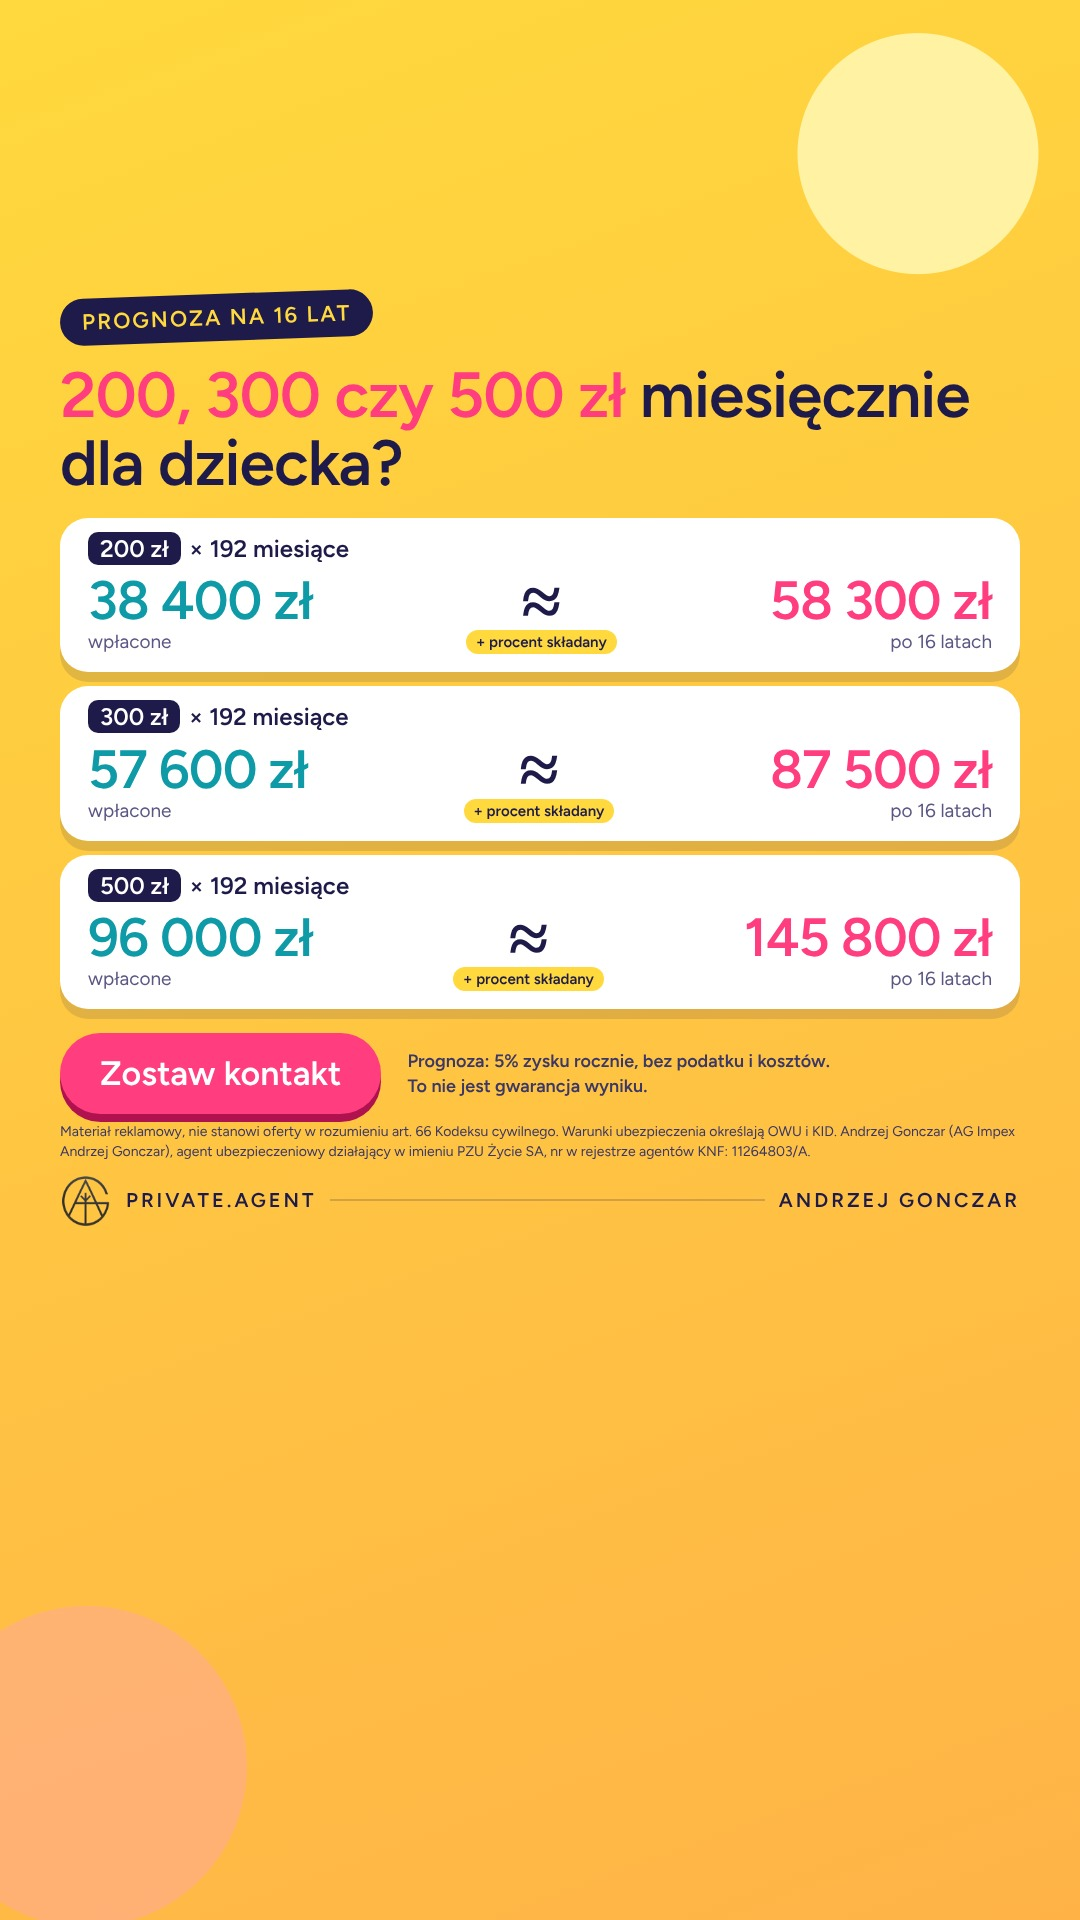
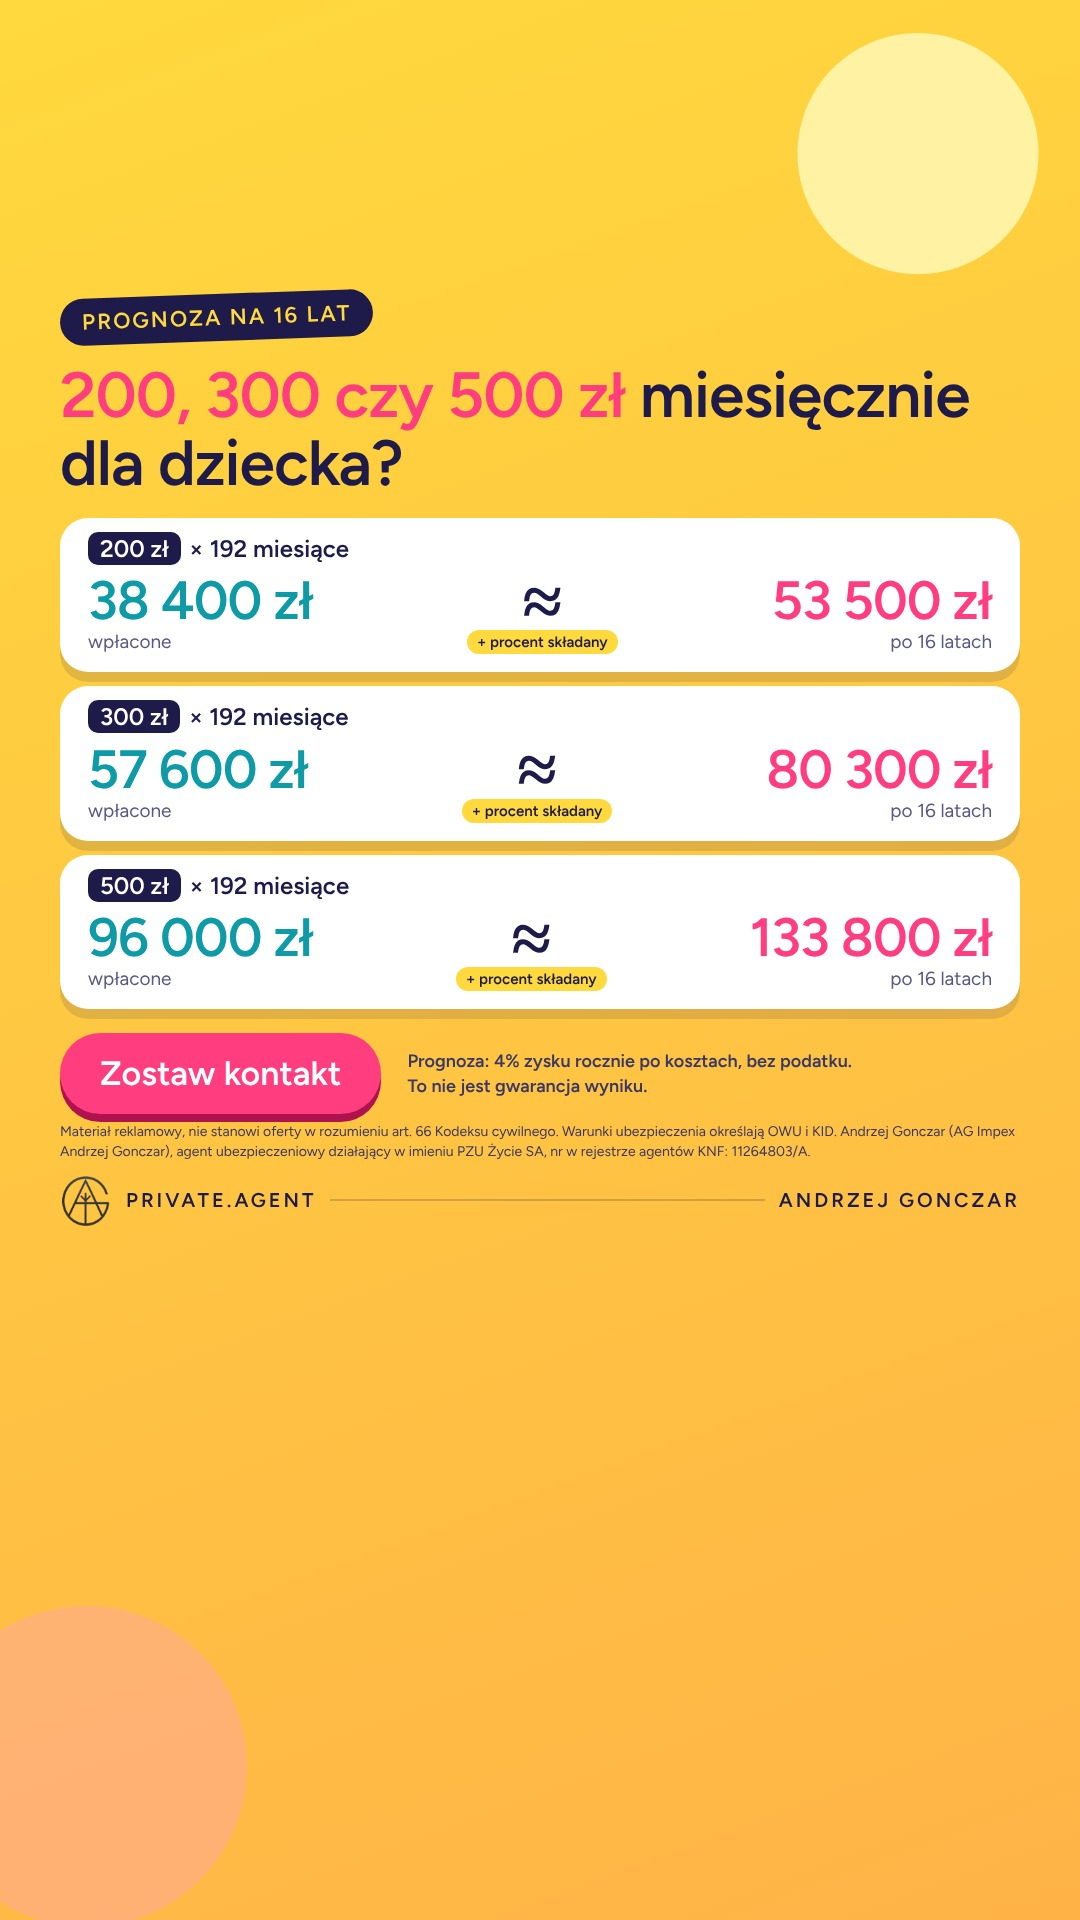
Kampania POSAG: 4% po kosztach
Claude-Session: https://claude.ai/code/session_01PysvEAD1NGhp7e2gF3vHjf

diff --git a/instagram/reklamy/posag-2026-11/reklama-posag.html b/instagram/reklamy/posag-2026-11/reklama-posag.html
@@ -38,16 +38,16 @@ h1 em{font-style:normal;color:#FF3D7F}
 <div class="c"><div class="lab"><b>200 zł</b>× 192 miesiące</div><div class="eq">
  <div class="l"><div class="n">38 400 zł</div><div class="s">wpłacone</div></div>
  <div class="mid"><div class="ap">≈</div><div class="pc">+ procent składany</div></div>
- <div class="r"><div class="n">58 300 zł</div><div class="s">po 16 latach</div></div></div></div>
+ <div class="r"><div class="n">53 500 zł</div><div class="s">po 16 latach</div></div></div></div>
 <div class="c"><div class="lab"><b>300 zł</b>× 192 miesiące</div><div class="eq">
  <div class="l"><div class="n">57 600 zł</div><div class="s">wpłacone</div></div>
  <div class="mid"><div class="ap">≈</div><div class="pc">+ procent składany</div></div>
- <div class="r"><div class="n">87 500 zł</div><div class="s">po 16 latach</div></div></div></div>
+ <div class="r"><div class="n">80 300 zł</div><div class="s">po 16 latach</div></div></div></div>
 <div class="c"><div class="lab"><b>500 zł</b>× 192 miesiące</div><div class="eq">
  <div class="l"><div class="n">96 000 zł</div><div class="s">wpłacone</div></div>
  <div class="mid"><div class="ap">≈</div><div class="pc">+ procent składany</div></div>
- <div class="r"><div class="n">145 800 zł</div><div class="s">po 16 latach</div></div></div></div>
-<div class="bot"><div class="cta">Zostaw kontakt</div><div class="note big">Prognoza: 5% zysku rocznie, bez podatku i kosztów.<br>To nie jest gwarancja wyniku.</div></div>
+ <div class="r"><div class="n">133 800 zł</div><div class="s">po 16 latach</div></div></div></div>
+<div class="bot"><div class="cta">Zostaw kontakt</div><div class="note big">Prognoza: 4% zysku rocznie po kosztach, bez podatku.<br>To nie jest gwarancja wyniku.</div></div>
 <div class="legal">Materiał reklamowy, nie stanowi oferty w rozumieniu art. 66 Kodeksu cywilnego. Warunki ubezpieczenia określają OWU i KID. Andrzej Gonczar (AG Impex Andrzej Gonczar), agent ubezpieczeniowy działający w imieniu PZU Życie SA, nr w rejestrze agentów KNF: 11264803/A.</div>
 <div class="foot"><img src="logo-t.png">PRIVATE.AGENT<div class="line"></div>ANDRZEJ GONCZAR</div>
 </body></html>

diff --git a/instagram/reklamy/posag-2026-11/kampania.md b/instagram/reklamy/posag-2026-11/kampania.md
@@ -7,10 +7,10 @@ Biłgoraj + 40 km, 18+, 20 zł dziennie, test A/B przez 7 dni.
 - reklama-posag-1x1.jpg – Marketplace, prawa kolumna
 - reklama-posag-9x16.jpg – Stories i Reels
 
-Prognoza: 200/300/500 zł co miesiąc przez 192 miesiące (16 lat), 5% zysku rocznie, bez waloryzacji, podatku i kosztów.
-- 200 zł: wpłacone 38 400 zł ≈ 58 300 zł
-- 300 zł: wpłacone 57 600 zł ≈ 87 500 zł
-- 500 zł: wpłacone 96 000 zł ≈ 145 800 zł
+Prognoza: 200/300/500 zł co miesiąc przez 192 miesiące (16 lat), 4% zysku rocznie po kosztach, bez waloryzacji i podatku.
+- 200 zł: wpłacone 38 400 zł ≈ 53 500 zł
+- 300 zł: wpłacone 57 600 zł ≈ 80 300 zł
+- 500 zł: wpłacone 96 000 zł ≈ 133 800 zł
 
 Klauzula na grafice: Materiał reklamowy, nie stanowi oferty w rozumieniu art. 66 Kodeksu cywilnego. Warunki ubezpieczenia określają OWU i KID. Andrzej Gonczar (AG Impex Andrzej Gonczar), agent ubezpieczeniowy działający w imieniu PZU Życie SA, nr w rejestrze agentów KNF: 11264803/A.
 
@@ -29,7 +29,7 @@ Przycisk: Dowiedz się więcej
 ## Wariant B – wiedza
 Tekst główny:
 3 rzeczy, które warto wiedzieć o odkładaniu dla dziecka:
-1. Czas robi więcej niż kwota. 200 zł przez 16 lat to 38 400 zł wpłat i ok. 58 300 zł w prognozie.
+1. Czas robi więcej niż kwota. 200 zł przez 16 lat to 38 400 zł wpłat i ok. 53 500 zł w prognozie.
 2. Im wcześniej start, tym większą część kwoty końcowej robi procent składany.
 3. Polisa posagowa łączy oszczędzanie z ochroną na wypadek, gdyby rodzica zabrakło.
 Jestem agentem ubezpieczeniowym PZU. Zostaw kontakt, a policzę prognozę dla wybranej kwoty. 👇
@@ -46,7 +46,7 @@ Pytanie (wielokrotny wybór): Jaką kwotę miesięcznie chcesz rozważyć? – 2
 Pola: imię, numer telefonu.
 Polityka prywatności: link do agprivate.pl.
 Zgoda RODO: treść od Andrzeja.
-Ekran podziękowania: Dziękuję! Oddzwonię w ciągu 24 godzin z prognozą dla wybranej kwoty. Prognoza przy założeniu 5% zysku rocznie, nie stanowi oferty ani gwarancji wyniku.
+Ekran podziękowania: Dziękuję! Oddzwonię w ciągu 24 godzin z prognozą dla wybranej kwoty. Prognoza przy założeniu 4% zysku rocznie, nie stanowi oferty ani gwarancji wyniku.
 
 ## Ustawienia w Menedżerze reklam
 - Cel: Kontakty, formularz błyskawiczny.
